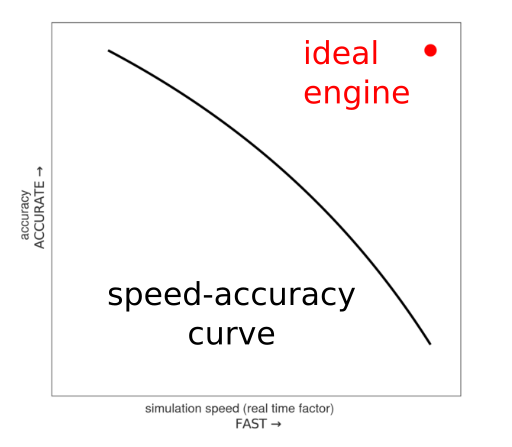
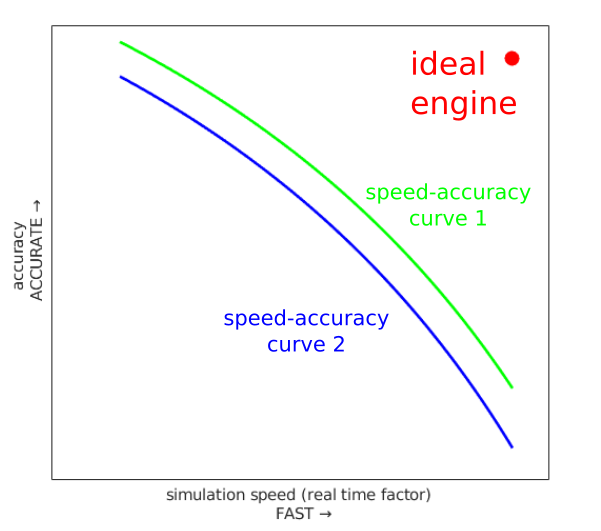
- doc edited

Changed region(s): [[0.0, 0.0291, 0.9375, 0.9888], [0.1875, 0.5817, 0.6875, 0.698], [0.3438, 0.7271, 0.5312, 0.7852]]

diff --git a/docs/index.html b/docs/index.html
@@ -24,6 +24,11 @@ layout: default
         margin-left: auto;
         margin-right: auto;
     }
+
+    figure figcaption {
+        /*border: 1px dotted blue;*/
+        text-align: center;
+    }
 </style>
 
 <h1>SimBenchmark</h1>
@@ -32,34 +37,34 @@ layout: default
     SimBenchmark is a project for benchmark of rigid body simulators with contacts.
 </p>
 
-<!--<h2>Motivation and Approach</h2>-->
+<h2>Introduction</h2>
 
-<!--<p>-->
-    <!--Solving contact dynamics is crucial for model based control and planning of legged robots since the robots are driven by the contact force generated by feet-terrain interaction.-->
-    <!--A number of rigid body simulators with contact solver has been introduced to the society and several survey or benchmark was reported to help researcher to select best one for their research.-->
-    <!--According to <a href="https://arxiv.org/pdf/1402.7050.pdf">a survey report</a>, the most important criteria for choosing a simulator for legged robot research is simulation close to reality and speed of the software.-->
+<p>
+    An Accurate and fast simulation of contact dynamics is crucial for research on legged robots since the motion of legged robots is highly dependent on contact force generated by feet-terrain interaction.
+    So far, a number of rigid body simulators with contact solvers has been introduced to the robotics society.
+    However most state-of-the-art simulators face trade-off between reality of the simulation and simulation efficient.
 
-    <!--<img src="./img/anymal-walking.gif" alt="anymal-walking-raisim">-->
-<!--</p>-->
-<!--<p>-->
-    <!--However due to its intractability of solving contact dynamics, rigid body simulators inevitably undergo the trade-off between efficiency and realistic solution.-->
-    <!--Furthermore several state-of-the-art simulators sacrifices reality of the simulation by relaxation of contact dynacmics constraints in order to make the simulation efficient: One common approach is relaxing Coulomb's friction cone constraint or Signorini condition(hard-contact constraint).-->
-
-<!--&lt;!&ndash; <div class="row"> &ndash;&gt;-->
-    <!--&lt;!&ndash; <div class="column"> &ndash;&gt;-->
-        <!--&lt;!&ndash; <img src="./img/mujoco-humanoid.png"> &ndash;&gt;-->
-        <!--&lt;!&ndash;<figcaption>ANYmal PD control simulation (articulated robot system simulation)</figcaption>&ndash;&gt;-->
-    <!--&lt;!&ndash; </div> &ndash;&gt;-->
-    <!--&lt;!&ndash; <div class="column"> &ndash;&gt;-->
-        <!--&lt;!&ndash; <img src="./img/mujoco-humanoid2.png"> &ndash;&gt;-->
-        <!--&lt;!&ndash;<figcaption>Zero gravity demo (Single body objects collision simulation)</figcaption>&ndash;&gt;-->
-    <!--&lt;!&ndash; </div> &ndash;&gt;-->
-<!--&lt;!&ndash; </div> &ndash;&gt;-->
-<!--</p>-->
-<!--<p>-->
-    <!--In this benchmark test, we consider this trade-off between accuracy and speed to provide more reliable result. Also, we provide comparison between numerical solution by simulation and analytical solution by solving dynamics when it is applicable.-->
-    <!--Although our lack of knowledge on real physics, as Newton dynamics and Coulomb's friction model are the most well-established model, it is reasonable approach for benchmark.-->
-<!--</p>-->
+    <figure>
+        <img src="./img/anymal-walking.gif" alt="anymal-walking-raisim">
+        <figcaption>Fig. 1. ANYmal walking in a simulation. <br>Image courtesy of Joonho Lee.</figcaption>
+    </figure>
+</p>
+<p>
+<!-- <div class="row"> -->
+    <!-- <div class="column"> -->
+        <!-- <img src="./img/mujoco-humanoid.png"> -->
+        <!--<figcaption>ANYmal PD control simulation (articulated robot system simulation)</figcaption>-->
+    <!-- </div> -->
+    <!-- <div class="column"> -->
+        <!-- <img src="./img/mujoco-humanoid2.png"> -->
+        <!--<figcaption>Zero gravity demo (Single body objects collision simulation)</figcaption>-->
+    <!-- </div> -->
+<!-- </div> -->
+</p>
+<p>
+    In this benchmark, we provide evaluation of the most commonly-used rigid body simulators in various situations from single-bodies with a limited number of contacts to complex articulated robotic systems with PD control input.
+    We hope this benchmark results would help robotics researchers to find and select the best one for their purposes.
+</p>
 
 <h2>List of Simulators</h2>
 
@@ -80,11 +85,14 @@ Read <a href="about/sims.html">this page</a> for more details.
 <h2>Methodology</h2>
 
 <p>
-    In this benchmark, we measure accuracy and CPU time of simulation with different time step.
-    Since accuracy of numerical solution is usually better when the time step is smaller, we considered this speed-accuracy trade off in evaluation.
-    This evaluation method was proposed by <a href="https://homes.cs.washington.edu/~todorov/papers/ErezICRA15.pdf">Tom Erez et al</a>.
+    We measure accuracy and CPU time of simulation with different time step.
+    Since accuracy of numerical solution is usually better when the time step is smaller, we considered this speed-accuracy trade off as proposed in <a href="https://homes.cs.washington.edu/~todorov/papers/ErezICRA15.pdf">Tom Erez et al</a>.
+    In the following example of speed-accuracy curve, the engine 1 represented by curve 1 is better than the engine 2 represented by curve 2.
 
-    <img src="img/plot-format.png" alt="plot-format">
+    <figure>
+        <img src="img/plot-format.png" alt="plot-format">
+        <figcaption>Fig. 2. Speed-accuracy curve format.</figcaption>
+    </figure>
 </p>
 
 <p>
@@ -102,7 +110,7 @@ More details of benchmark methodology is <a href="about/methodology.html">here</
     <li><a href="bouncing/bouncing.html">Bouncing test</a>: single-body elastic collision test</li>
     <li><a href="666/666.html">666 balls test</a>: single-body hard contact test</li>
     <li><a href="666/666-elastic.html">Elastic 666 balls test</a>: single-body energy test</li>
-    <li>Tower: single-body stacking test</li>
+    <li>Building test: single-body stacking test</li>
     <li><a href="anymal/anymal.html">ANYmal PD control test</a>: articulated-robot-system speed test</li>
     <li><a href="anymal-momentum/anymal-momentum.html">ANYmal momentum test</a>: articulated-robot-system momentum test</li>
     <li><a href="anymal-energy/anymal-energy.html">ANYmal energy test</a>: articulated-robot-system energy test</li>
@@ -117,7 +125,7 @@ More details of benchmark methodology is <a href="about/methodology.html">here</
         <th>Bouncing</th>
         <th>666</th>
         <th>Elastic 666</th>
-        <th>Tower</th>
+        <th>Building</th>
         <th>ANYmal PD</th>
         <th>ANYmal momentum</th>
         <th>ANYmal energy</th>
@@ -199,4 +207,8 @@ More details of benchmark methodology is <a href="about/methodology.html">here</
 
 <p>
     If you want to contribute to the project or have any concern, please contact <a href="mailto:kangd@ethz.ch">Dongho Kang</a>.
+</p>
+
+<p>
+    Special thanks to
 </p>
